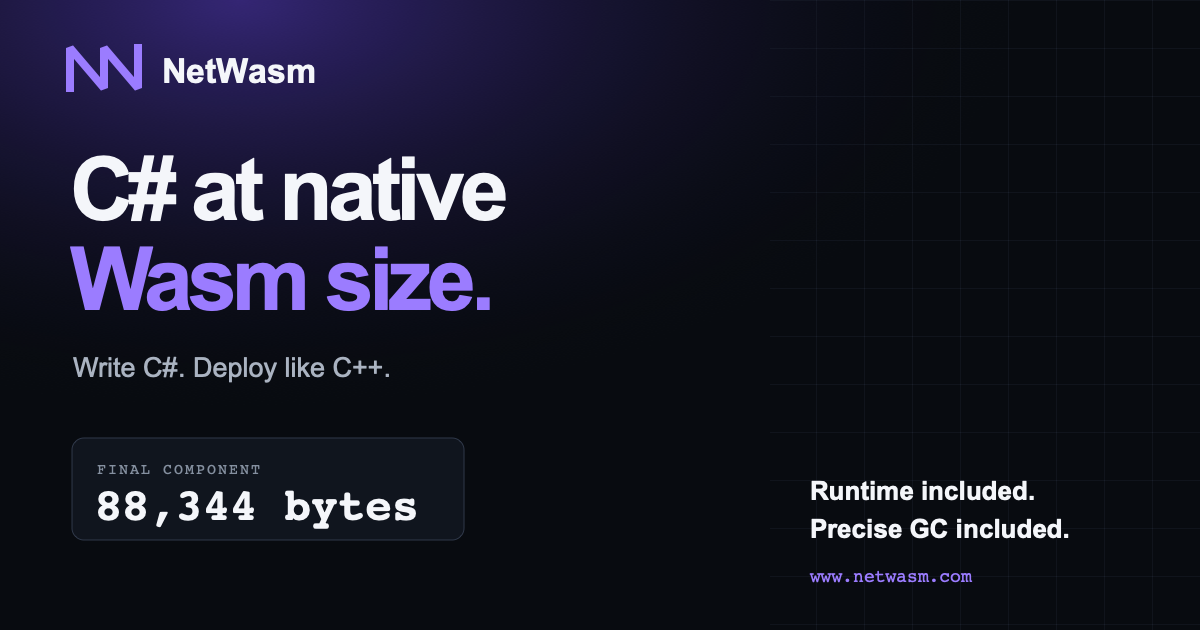
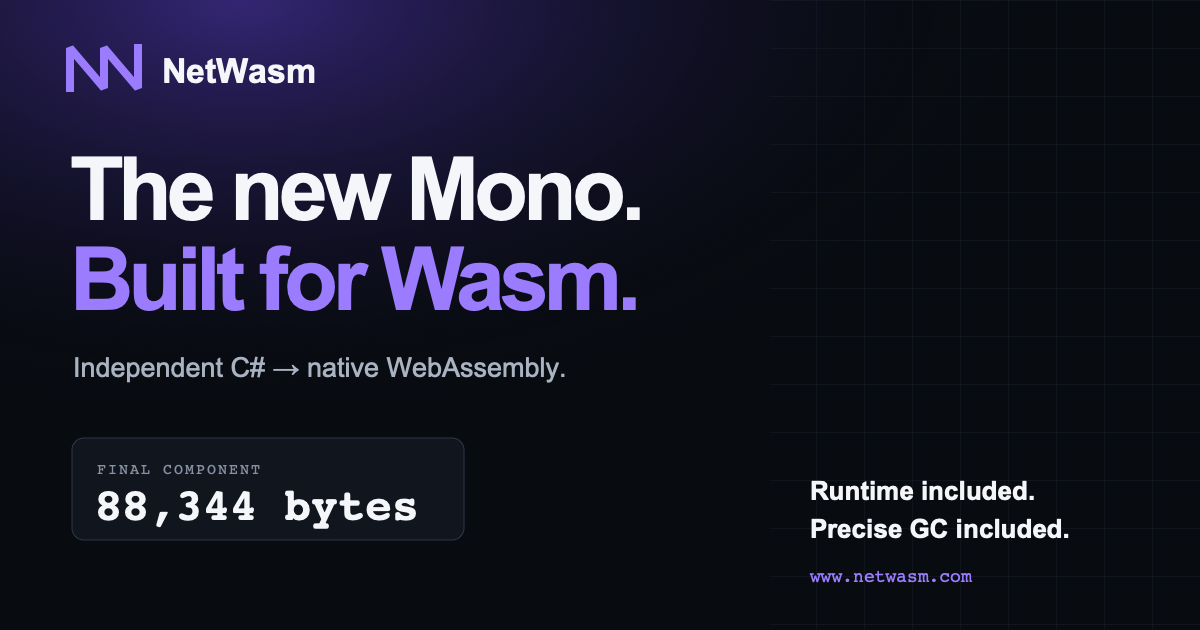
Position NetWasm as the independent .NET implementation

Changed region(s): [[0.0617, 0.3921, 0.5242, 0.5127], [0.0617, 0.2413, 0.555, 0.3619], [0.0617, 0.5429, 0.4625, 0.6032]]

diff --git a/index.html b/index.html
@@ -5,20 +5,22 @@
     <meta name="viewport" content="width=device-width, initial-scale=1">
     <meta name="theme-color" content="#080b10" media="(prefers-color-scheme: dark)">
     <meta name="theme-color" content="#f6f8fb" media="(prefers-color-scheme: light)">
-    <meta name="description" content="NetWasm compiles C# into standalone WebAssembly Components. An 88 KB Hello World includes its runtime and precise garbage collection.">
+    <meta name="description" content="The new Mono, built for WebAssembly. NetWasm is an independent C# compiler, runtime, CoreLib, SDK, and ecosystem that produces standalone Wasm Components.">
     <meta property="og:type" content="website">
-    <meta property="og:title" content="NetWasm — C# at native Wasm size">
-    <meta property="og:description" content="Write C#. Deploy like C++. An 88 KB final Wasm component, runtime and precise GC included.">
+    <meta property="og:title" content="NetWasm — The new Mono, built for Wasm">
+    <meta property="og:description" content="Independent C# to native WebAssembly. One standalone 88 KB component, runtime and precise GC included.">
     <meta property="og:url" content="https://www.netwasm.com/">
     <meta property="og:image" content="https://www.netwasm.com/og-card.png">
     <meta name="twitter:card" content="summary_large_image">
-    <meta name="twitter:title" content="NetWasm — C# at native Wasm size">
-    <meta name="twitter:description" content="Write C#. Deploy like C++. An 88 KB final Wasm component, runtime and precise GC included.">
+    <meta name="twitter:title" content="NetWasm — The new Mono, built for Wasm">
+    <meta name="twitter:description" content="Independent C# to native WebAssembly. One standalone 88 KB component, runtime and precise GC included.">
     <meta name="twitter:image" content="https://www.netwasm.com/og-card.png">
     <link rel="canonical" href="https://www.netwasm.com/">
-    <link rel="icon" href="favicon.svg" type="image/svg+xml">
+    <link rel="icon" href="favicon.svg" type="image/svg+xml" sizes="any">
+    <link rel="icon" href="favicon-32.png" type="image/png" sizes="32x32">
+    <link rel="apple-touch-icon" href="apple-touch-icon.png" sizes="180x180">
     <link rel="preconnect" href="https://github.com">
-    <title>NetWasm — C# at native Wasm size</title>
+    <title>NetWasm — The new Mono, built for Wasm</title>
     <link rel="stylesheet" href="styles.css">
     <script src="site.js" defer></script>
   </head>
@@ -51,9 +53,9 @@
       <section class="hero" id="top">
         <div class="hero-glow" aria-hidden="true"></div>
         <div class="hero-copy">
-          <p class="eyebrow"><span></span> A new .NET platform for WebAssembly</p>
-          <h1>C# at <em>native Wasm</em> size.</h1>
-          <p class="hero-lede">Write C#. Deploy like C++. NetWasm compiles your reachable program into one standalone WebAssembly Component.</p>
+          <p class="eyebrow"><span></span> Independent .NET. Built outside Microsoft.</p>
+          <h1>The new <em>Mono.</em><br>Built for Wasm.</h1>
+          <p class="hero-lede">Mono proved .NET could belong beyond one company. NetWasm brings that independent spirit to the Wasm era—compiling your reachable C# program into one standalone WebAssembly Component.</p>
           <div class="hero-actions">
             <a class="button button-primary" href="https://playground.netwasm.com/">
               Try NetWasm now — no install
@@ -91,20 +93,20 @@
 
       <section class="manifesto" aria-label="Runtime requirements">
         <p>NO CLR.</p>
-        <p>NO MONO.</p>
+        <p>NO MONO RUNTIME.</p>
         <p>NO <code>dotnet.js</code>.</p>
         <p>NO APP DLLs.</p>
       </section>
 
-      <section class="origin section" aria-label="NetWasm origin">
+      <section class="origin section" aria-label="NetWasm independence">
         <div class="origin-lead">
-          <p class="section-kicker">The unreasonable part</p>
-          <h2>JetBrains gave Kotlin a portable Wasm platform.</h2>
+          <p class="section-kicker">An independent .NET again</p>
+          <h2>Mono proved .NET could be bigger than one company.</h2>
         </div>
         <div class="origin-punch">
-          <span>ONE DEVELOPER</span>
-          <h2>built C#’s answer.</h2>
-          <p>Compiler. CoreLib. Runtime. Precise GC. SDK. WASI host. Browser toolchain. Libraries. Test integration.</p>
+          <span>THE NEXT INDEPENDENT IMPLEMENTATION</span>
+          <h2>starts with Wasm.</h2>
+          <p>Mono is now part of Microsoft. NetWasm brings back an ambitious .NET implementation built independently, in public, by one developer: compiler, CoreLib, runtime, precise GC, SDK, WASI host, browser toolchain, libraries, and test integration. JetBrains gave Kotlin a portable Wasm platform. This is C#’s answer.</p>
         </div>
       </section>
 

diff --git a/styles.css b/styles.css
@@ -433,7 +433,8 @@ footer > p { color: var(--muted); font-size: 13px; }
   .hero, .section, footer { width: min(calc(100% - 28px), var(--max)); }
   .hero { min-height: 0; padding: 70px 0 80px; gap: 55px; }
   .hero-glow { width: 100vw; left: -14px; }
-  .hero h1 { font-size: clamp(54px, 17vw, 76px); }
+  .eyebrow { font-size: 10px; letter-spacing: .08em; }
+  .hero h1 { font-size: clamp(42px, 12vw, 58px); }
   .hero-lede { font-size: 18px; }
   .hero-actions { align-items: stretch; flex-direction: column; }
   .hero-actions .button { width: 100%; }
